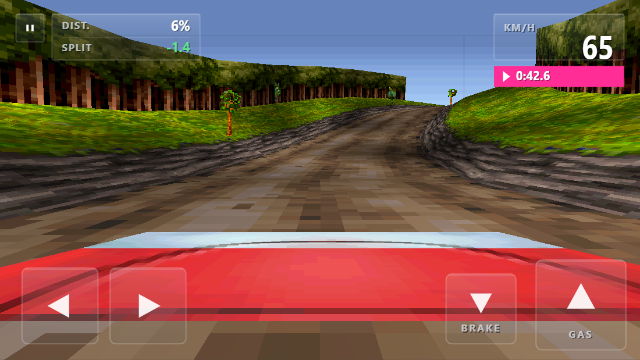
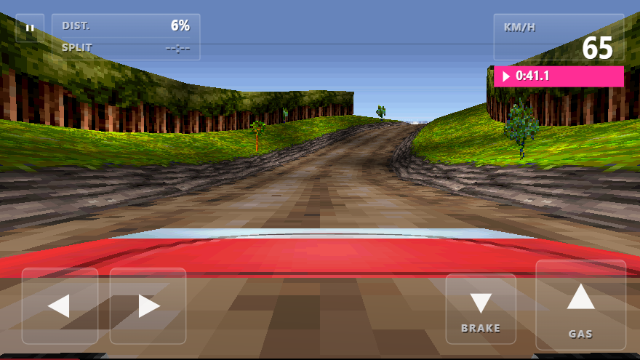
Put the hood camera at the base of the windscreen
The bonnet was floating in the middle of the frame with the road showing
underneath it and the front tyres poking up behind it. The camera sat too
far back and too high, so the near edge of the bonnet fell below the frame.

Measured the model to get this right - the roof is at y = 2.01 over the
cabin, the bonnet runs from y = 1.41 at z = 1.0 down to the nose at
z = 2.73, and the front wheels are at z = 1.5. The camera now rides at the
base of the windscreen (y = 1.68, z = 0.35) and looks along the bonnet, so
the bodywork fills the bottom of the frame with no gap and no tyres in
shot.

diff --git a/game/js/race.js b/game/js/race.js
@@ -28,16 +28,14 @@ const THEMES = R3D.themeColors;
 const textMid = R3D.textMid, tagMid = R3D.tagMid;
 
 // ------------------------------------------------------------------ cameras
-// Five viewpoints, all in the car's own frame (x = right, y = up, z = front):
+// Four viewpoints, all in the car's own frame (x = right, y = up, z = front):
 //   off  - where the camera sits
 //   look - what it points at
 //   lag  - how fast the camera frame follows the car's yaw (the original
 //          chase cam trails noticeably; the rigid ones barely lag at all)
-// The car's own model is 5.45 long (nose at z = 2.73), 2.65 wide and 2.02
-// tall, so the on-car cameras have to sit clear of the bodywork.
 //
 //  chase  - behind and above, the original's trailing yaw
-//  hood   - over the windscreen, looking down the bonnet
+//  hood   - at the base of the windscreen, looking along the bonnet
 //  bumper - on the nose, at bumper height
 //  top    - from above, the nose pointing up the screen
 //
@@ -48,7 +46,12 @@ const CAMS = {
     label: 'Chase', off: [0, 3.2, -9.0], look: [0, 1.4, 8], lag: 25 / 6,
   },
   hood: {
-    label: 'Hood', off: [0, 1.72, 0.55], look: [0, 0.70, 16], lag: 25 / 2.6,
+    // The model's real shape: the roof is at y = 2.01 over the cabin, the
+    // bonnet runs from y = 1.41 at z = 1.0 down to the nose at z = 2.73, and
+    // the front wheels sit at z = 1.5. Riding at the base of the windscreen
+    // and looking along the bonnet keeps the bodywork filling the bottom of
+    // the frame with no gap under it and no tyres in shot.
+    label: 'Hood', off: [0, 1.68, 0.35], look: [0, 1.05, 16], lag: 25 / 2.6,
     rigid: true, clear: 0.45,
   },
   bumper: {
